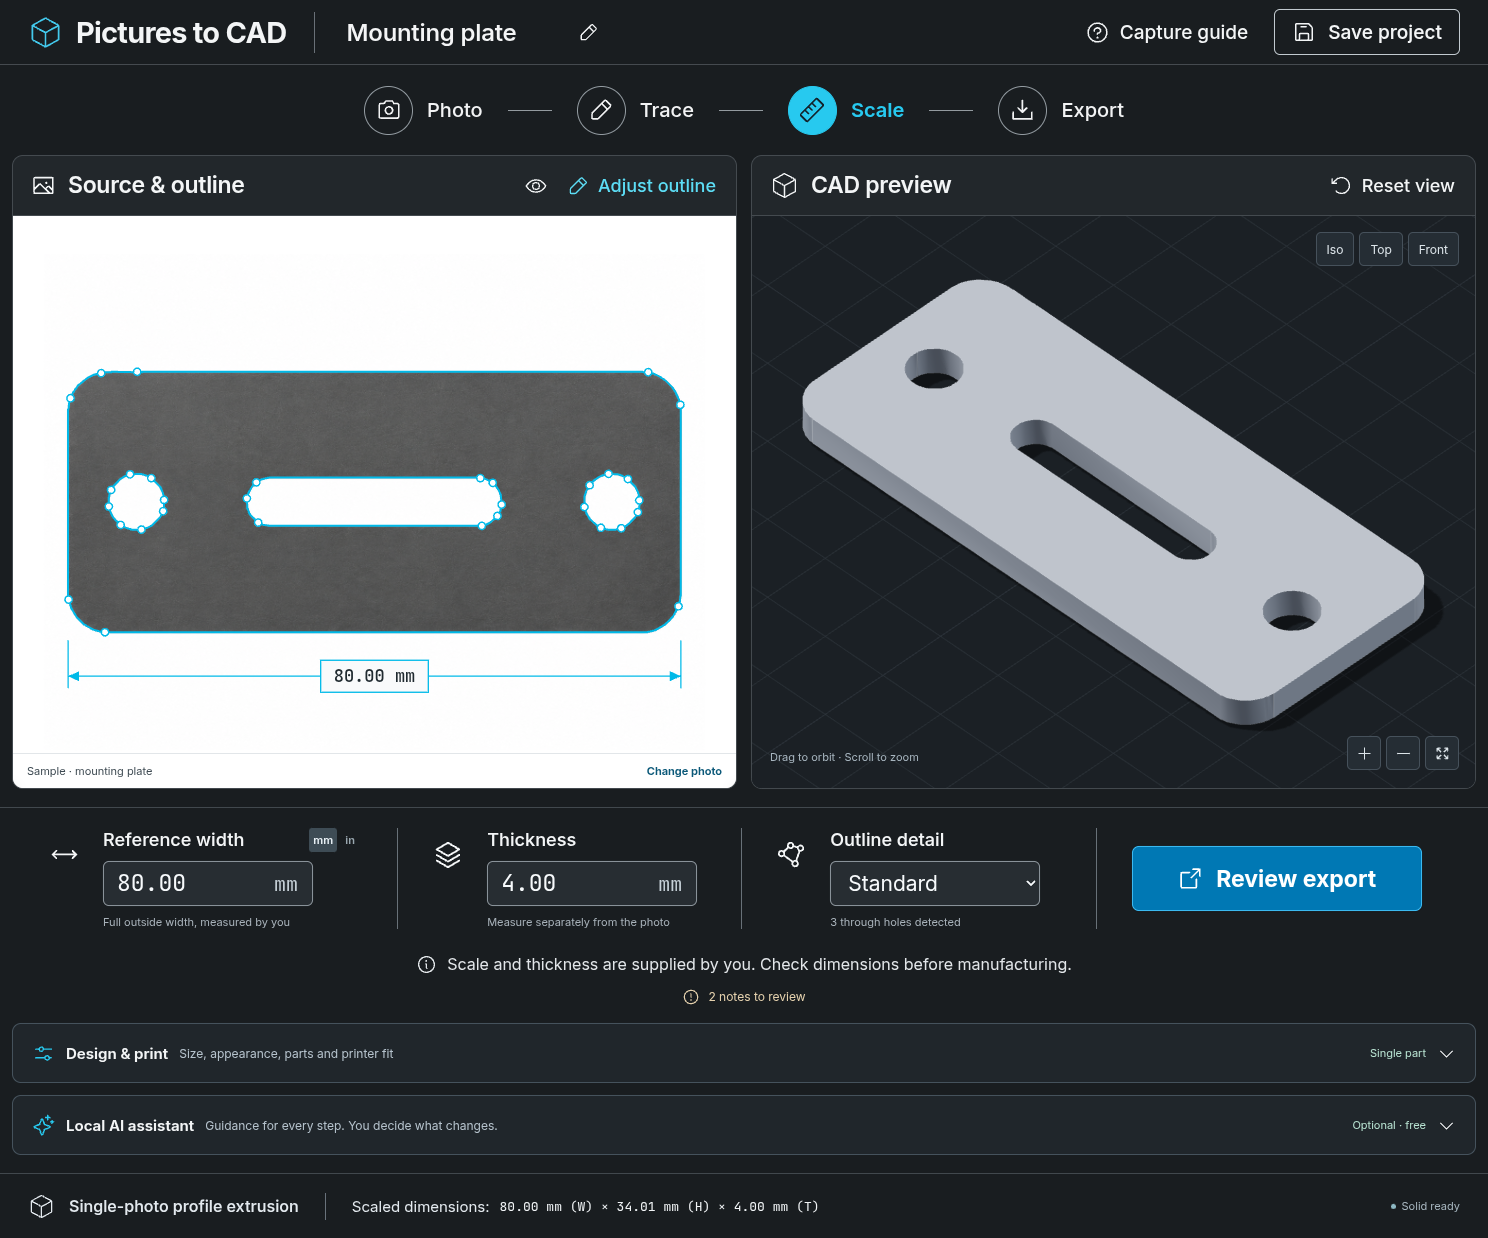
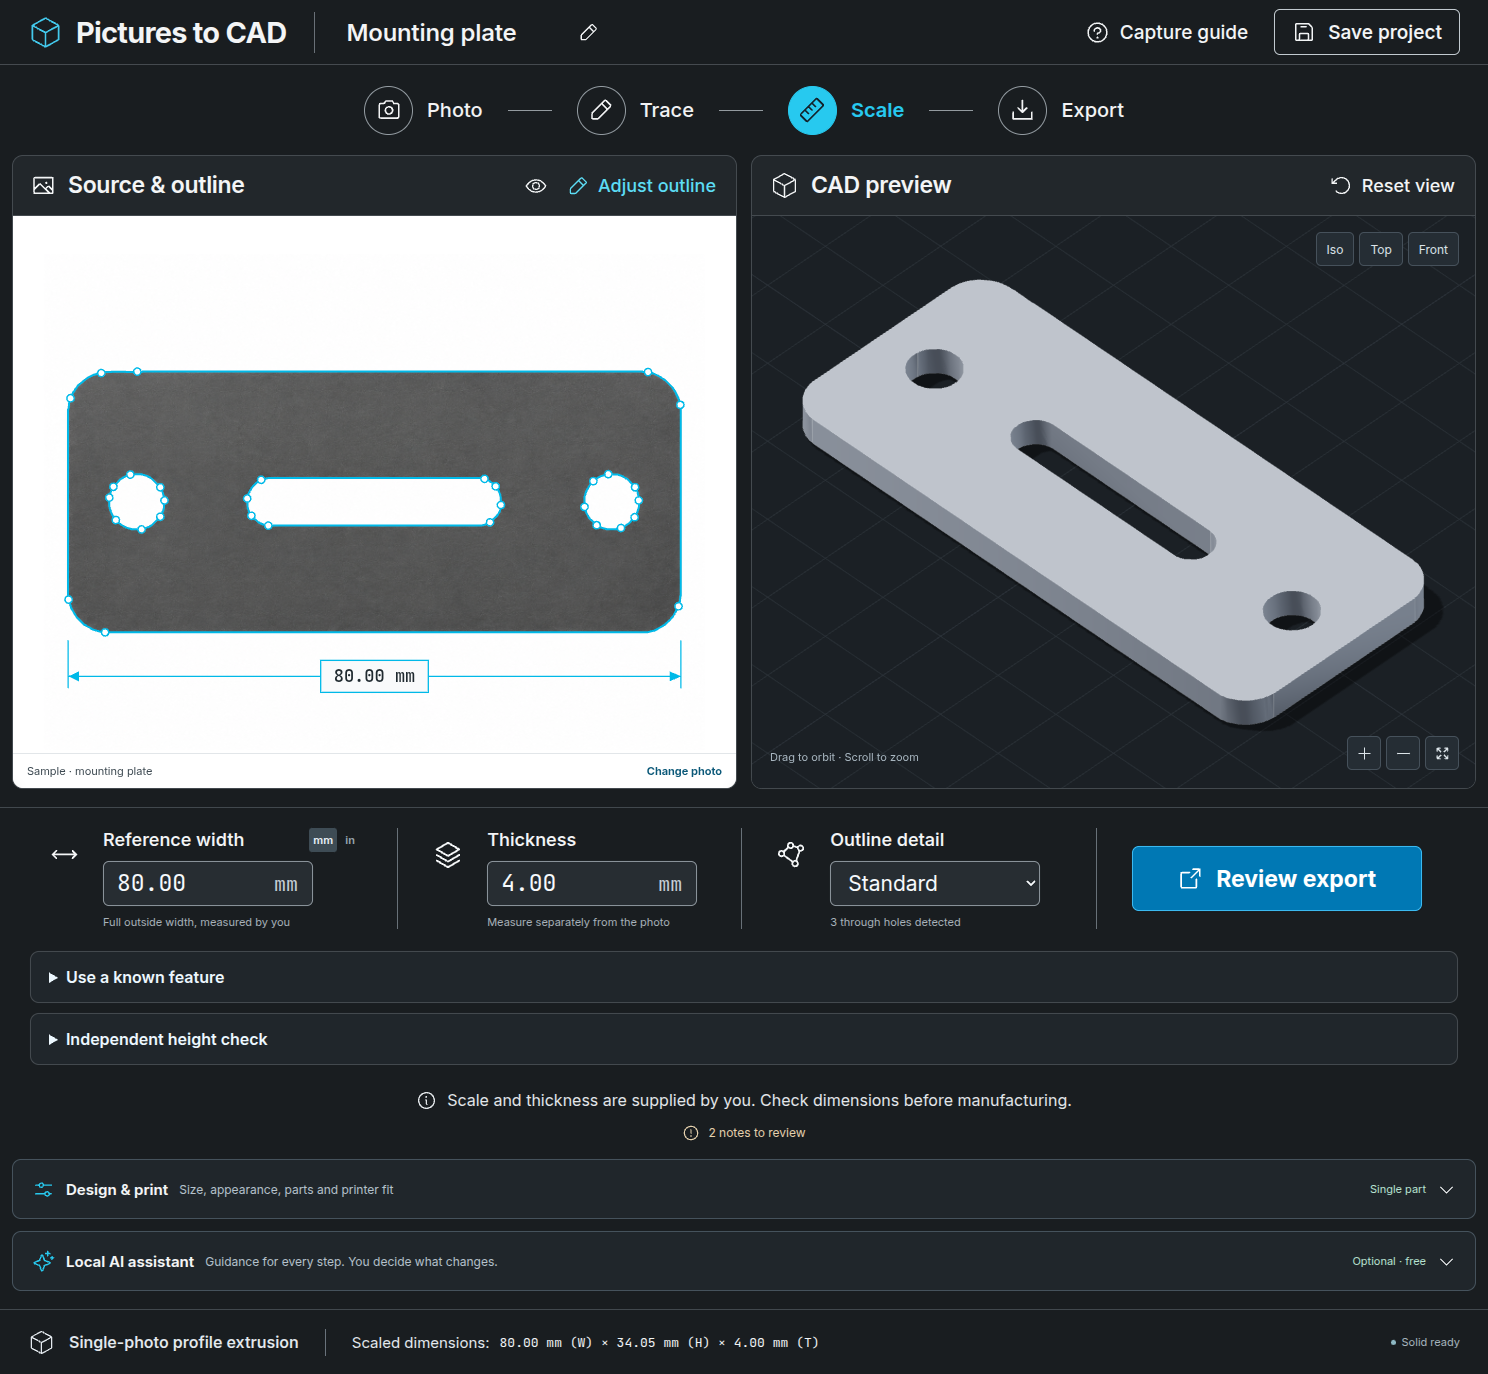
Refresh workbench screenshots and validation wording

diff --git a/docs/validation.md b/docs/validation.md
@@ -10,7 +10,7 @@ The workbench now supports an explicitly applied two-point reference in the orie
 - The ten added browser scenarios verify real CAD dimensions, inch conversion, save/restore started in inches, held-out height comparison before design scaling, blank checks, invalid drafts/imports, manual width overrides, same-frame and changed-frame retracing, failed-retrace retention, fixture-assisted retrace/Undo, and printer-search recovery on desktop and mobile.
 - The endpoint checks include a 3–4–5 diagonal and reversed endpoints, draft edits that do not change applied scale, and independent mobile touch-to-image mapping at device pixel ratio 2. The expanded measurement tools pass the selected axe WCAG A/AA rules at a 390-pixel phone viewport with no horizontal overflow. Complete screen-reader, cross-browser, and device-lab qualification remain outside this run.
 - Damaged PNG compressed-data chunks now return a recoverable HTTP 422 instead of an uncaught decoder error. A regression checks rejection followed by a successful valid trace.
-- Source photos, private project folders and local model providers were not used. Assistant answers and deliberately changed trace frames in lifecycle checks are fixtures; geometry builds and exports use the real local CAD service.
+- Personal source photos, private project folders and local model providers were not used. Assistant answers and deliberately changed trace frames in lifecycle checks are fixtures; geometry builds and exports use the real local CAD service.
 - The reference-library files are unchanged in this update. Its separate release and CI evidence remain attached to Revision 6 / pull request #9; this workbench run does not replace those results.
 
 The run used Python 3.12.14, Node.js 22.13.1 and the system Chrome fallback. These are software and synthetic geometry checks. No physical part was sliced or printed, and the endpoint/height tools do not establish metrology accuracy, fit or manufacturing acceptance. GitHub CI results belong to this update's pull request.
